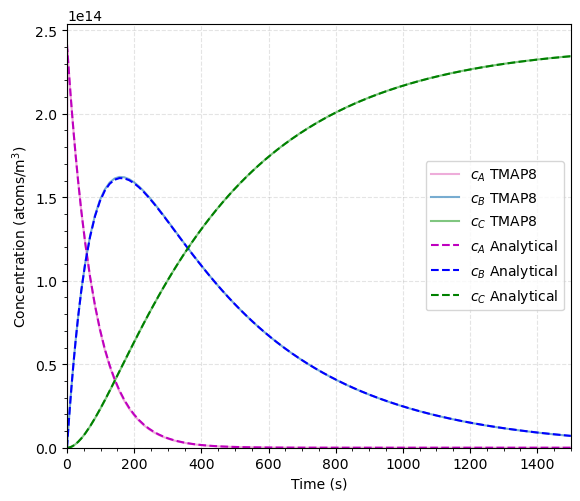
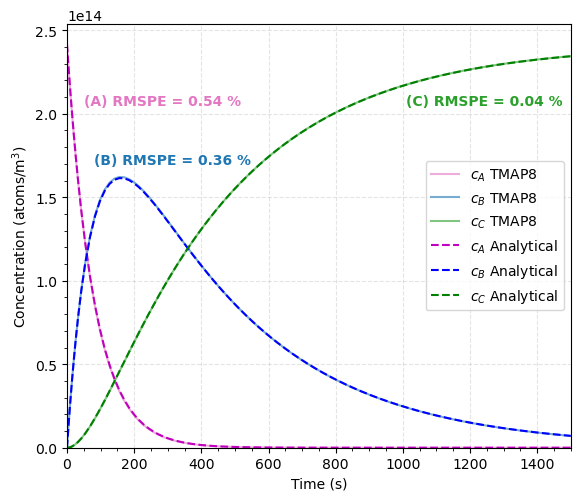
Update documentation and figure

Changed region(s): [[0.1241, 0.1796, 0.4345, 0.2096], [0.6828, 0.1796, 0.9621, 0.2096], [0.1552, 0.2994, 0.4345, 0.3293]]

diff --git a/doc/content/verification_and_validation/ver-1gc.md b/doc/content/verification_and_validation/ver-1gc.md
@@ -53,7 +53,7 @@ The time evolution of the species concentrations from the analytical solution is
 
 ## Results and comparison against analytical solution
 
-The comparison of TMAP8 results against the analytical solution is shown in [ver-1gc_comparison_diff_conc]. The match between TMAP8's predictions and the analytical solution is satisfactory.
+The comparison of TMAP8 results against the analytical solution is shown in [ver-1gc_comparison_diff_conc]. The match between TMAP8's predictions and the analytical solution is satisfactory, with root mean square percentage errors (RMSPE) of RMSPE = 0.54 % for species $A$, RMSPE = 0.36 % for species $B$, and RMSPE = 0.04 % for species $C$.
 
 !media figures/ver-1gc_comparison_diff_conc.png
     style=width:50%;margin-bottom:2%
